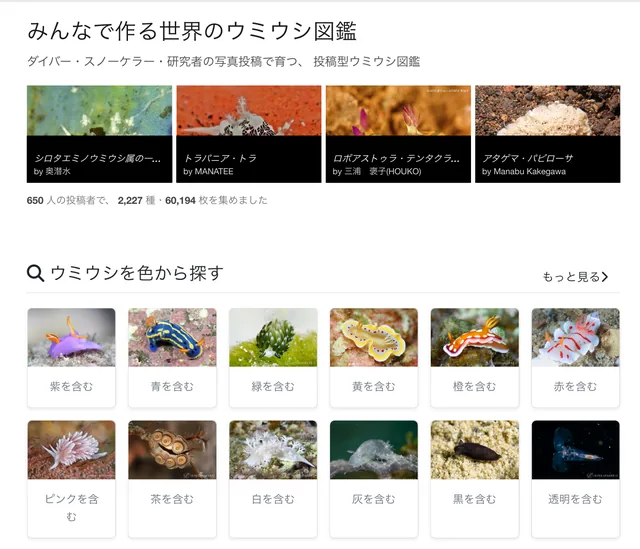
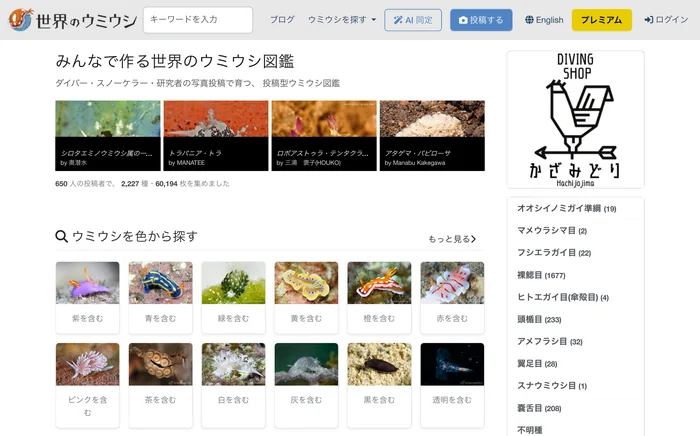
トップ(日本語)の案: 世界のウミウシの絵を、ロゴの入った画面ぜんたい(横長)にする

diff --git a/index.html b/index.html
@@ -42,7 +42,7 @@
 <link rel="stylesheet" href="https://fonts.googleapis.com/css2?family=EB+Garamond:ital,wght@1,500&family=Zen+Kaku+Gothic+New:wght@500;700;900&display=swap" media="print" onload="this.media='all'">
 <noscript><link rel="stylesheet" href="https://fonts.googleapis.com/css2?family=EB+Garamond:ital,wght@1,500&family=Zen+Kaku+Gothic+New:wght@500;700;900&display=swap"><style>.reveal{opacity:1;transform:none}</style></noscript>
 <link rel="stylesheet" href="./assets/site.css?v=20261110">
-<link rel="stylesheet" href="./assets/lab.css?v=20261118x2">
+<link rel="stylesheet" href="./assets/lab.css?v=20261118x3">
 </head>
 <body>
 <header class="nav">
@@ -68,7 +68,7 @@
         <p>みんなで作る、投稿型のウミウシ図鑑。世界中のダイバーが撮ったウミウシの写真を、種ごとにまとめています。投稿者はサイト内でマイ図鑑を作れます。</p>
         <p class="links"><a href="https://apps.apple.com/jp/app/id6785337563">App Store</a><a href="https://play.google.com/store/apps/details?id=world.seaslug.app">Google Play</a></p>
       </div>
-      <div class="shot flat"><img src="./assets/seaslug-web.webp" srcset="./assets/seaslug-web-640.webp 640w, ./assets/seaslug-web.webp 1340w" sizes="(max-width: 640px) 90vw, (max-width: 900px) 280px, 480px" width="1340" height="1150" alt="世界のウミウシのトップの画面。投稿された写真と、色から探す一覧" fetchpriority="high"></div>
+      <div class="shot flat"><img src="./assets/seaslug-web.webp" srcset="./assets/seaslug-web-640.webp 700w, ./assets/seaslug-web.webp 1400w" sizes="(max-width: 640px) 90vw, (max-width: 900px) 280px, 480px" width="1400" height="872" alt="世界のウミウシのトップの画面。ロゴと、投稿された写真、色から探す一覧" fetchpriority="high"></div>
     </article>
 
     <article class="pan" id="kasane">

diff --git a/assets/lab.css b/assets/lab.css
@@ -169,7 +169,7 @@
 /* 箱 */
 .home .pans { display: grid; grid-template-columns: repeat(2, minmax(0, 1fr)); gap: 72px 32px; }
 .home .pan { position: relative; display: grid; grid-template-rows: auto 1fr; background: var(--pan); border-radius: var(--radius); padding: 52px 48px 0; min-height: 520px; }
-.home .pan.wide { grid-column: 1 / -1; grid-template-columns: minmax(0, 1fr) minmax(0, 1fr); grid-template-rows: auto; column-gap: 48px; align-items: center; padding: 64px 56px; min-height: 420px; }
+.home .pan.wide { grid-column: 1 / -1; grid-template-columns: minmax(0, 5fr) minmax(0, 6fr); grid-template-rows: auto; column-gap: 48px; align-items: center; padding: 64px 56px; min-height: 420px; }
 .home .pan.slim { min-height: 0; padding: 44px 56px; align-items: start; }
 .home .pan h3 { margin: 0; font-size: clamp(26px, 2.9vw, 38px); font-weight: 900; line-height: 1.35; word-break: auto-phrase; }
 .home .pan h3 a { color: inherit; text-decoration: none; display: inline; }
